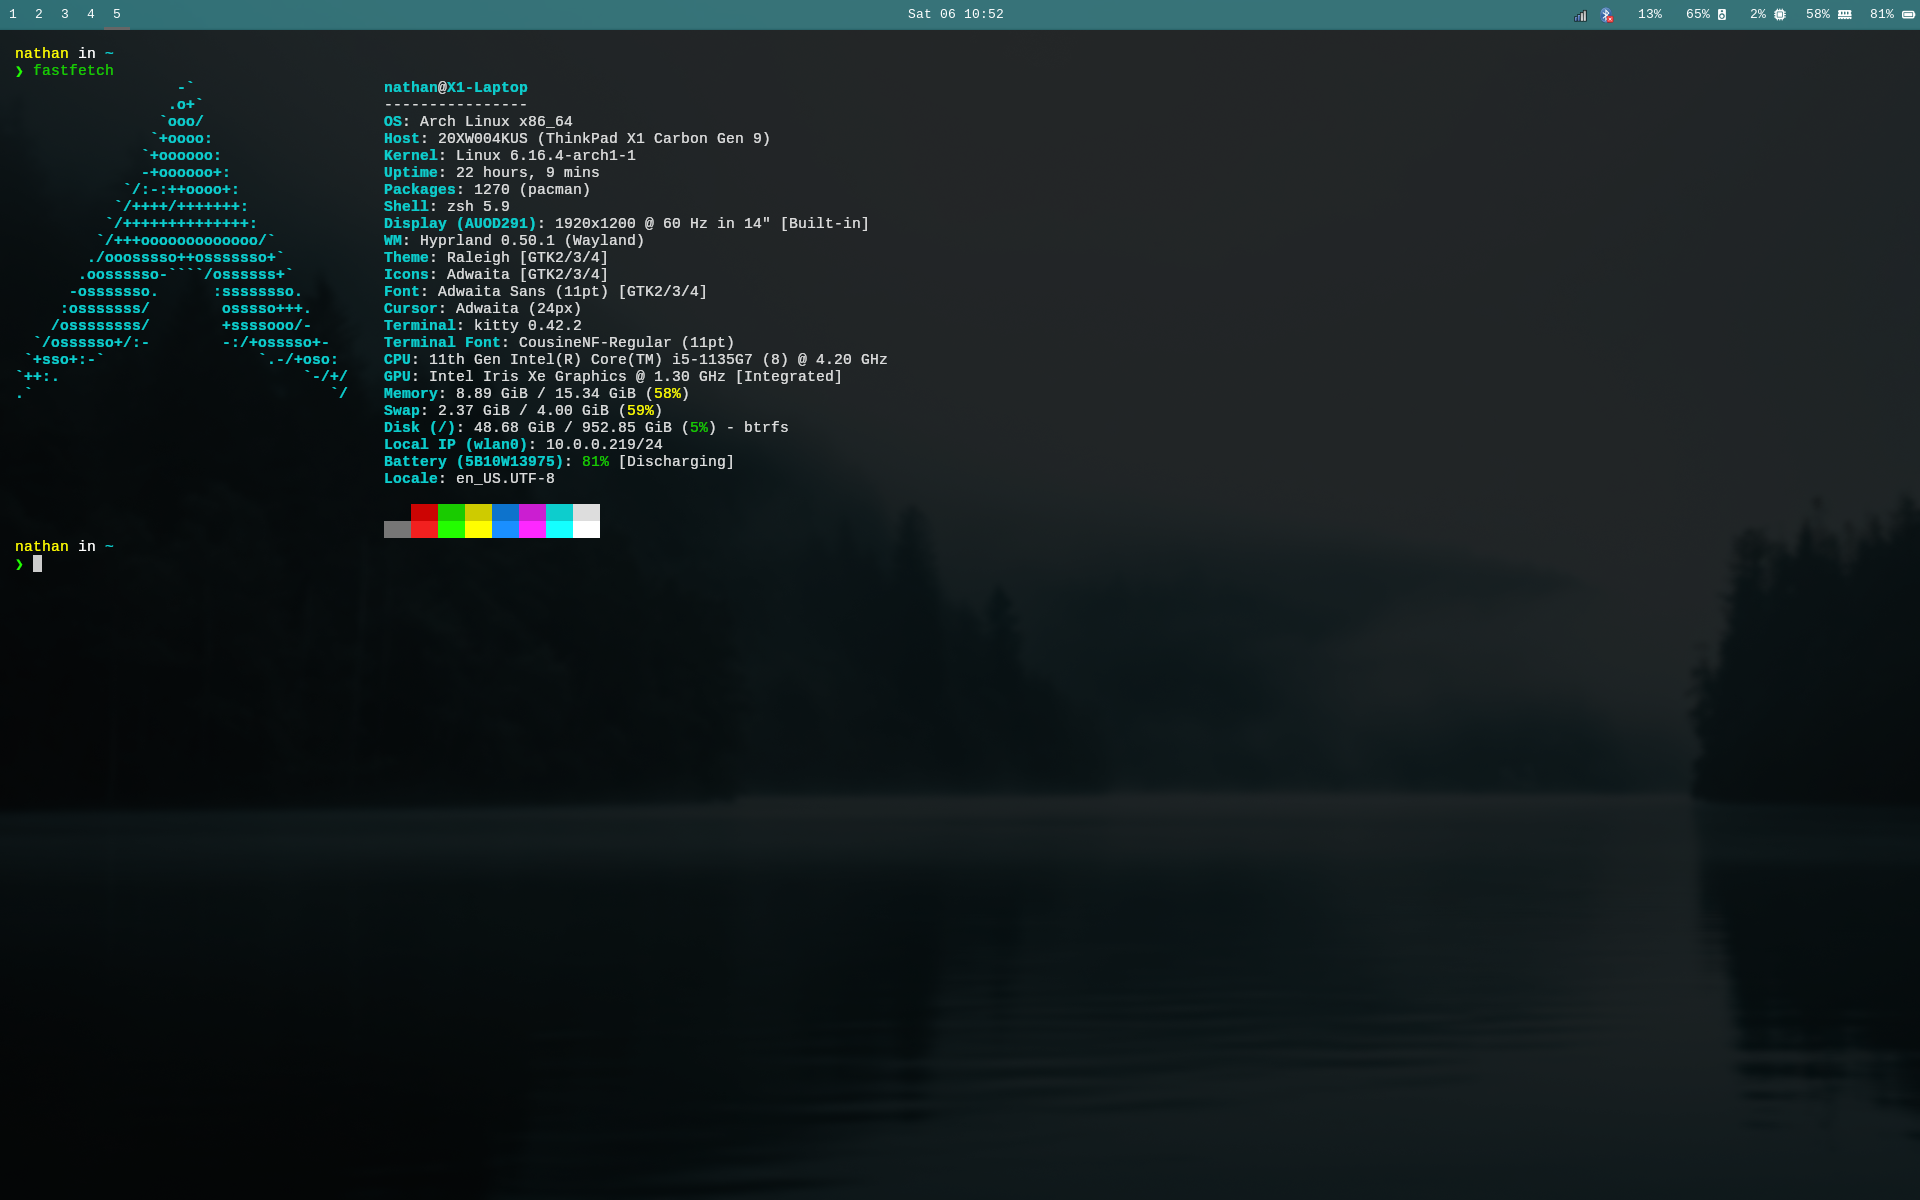
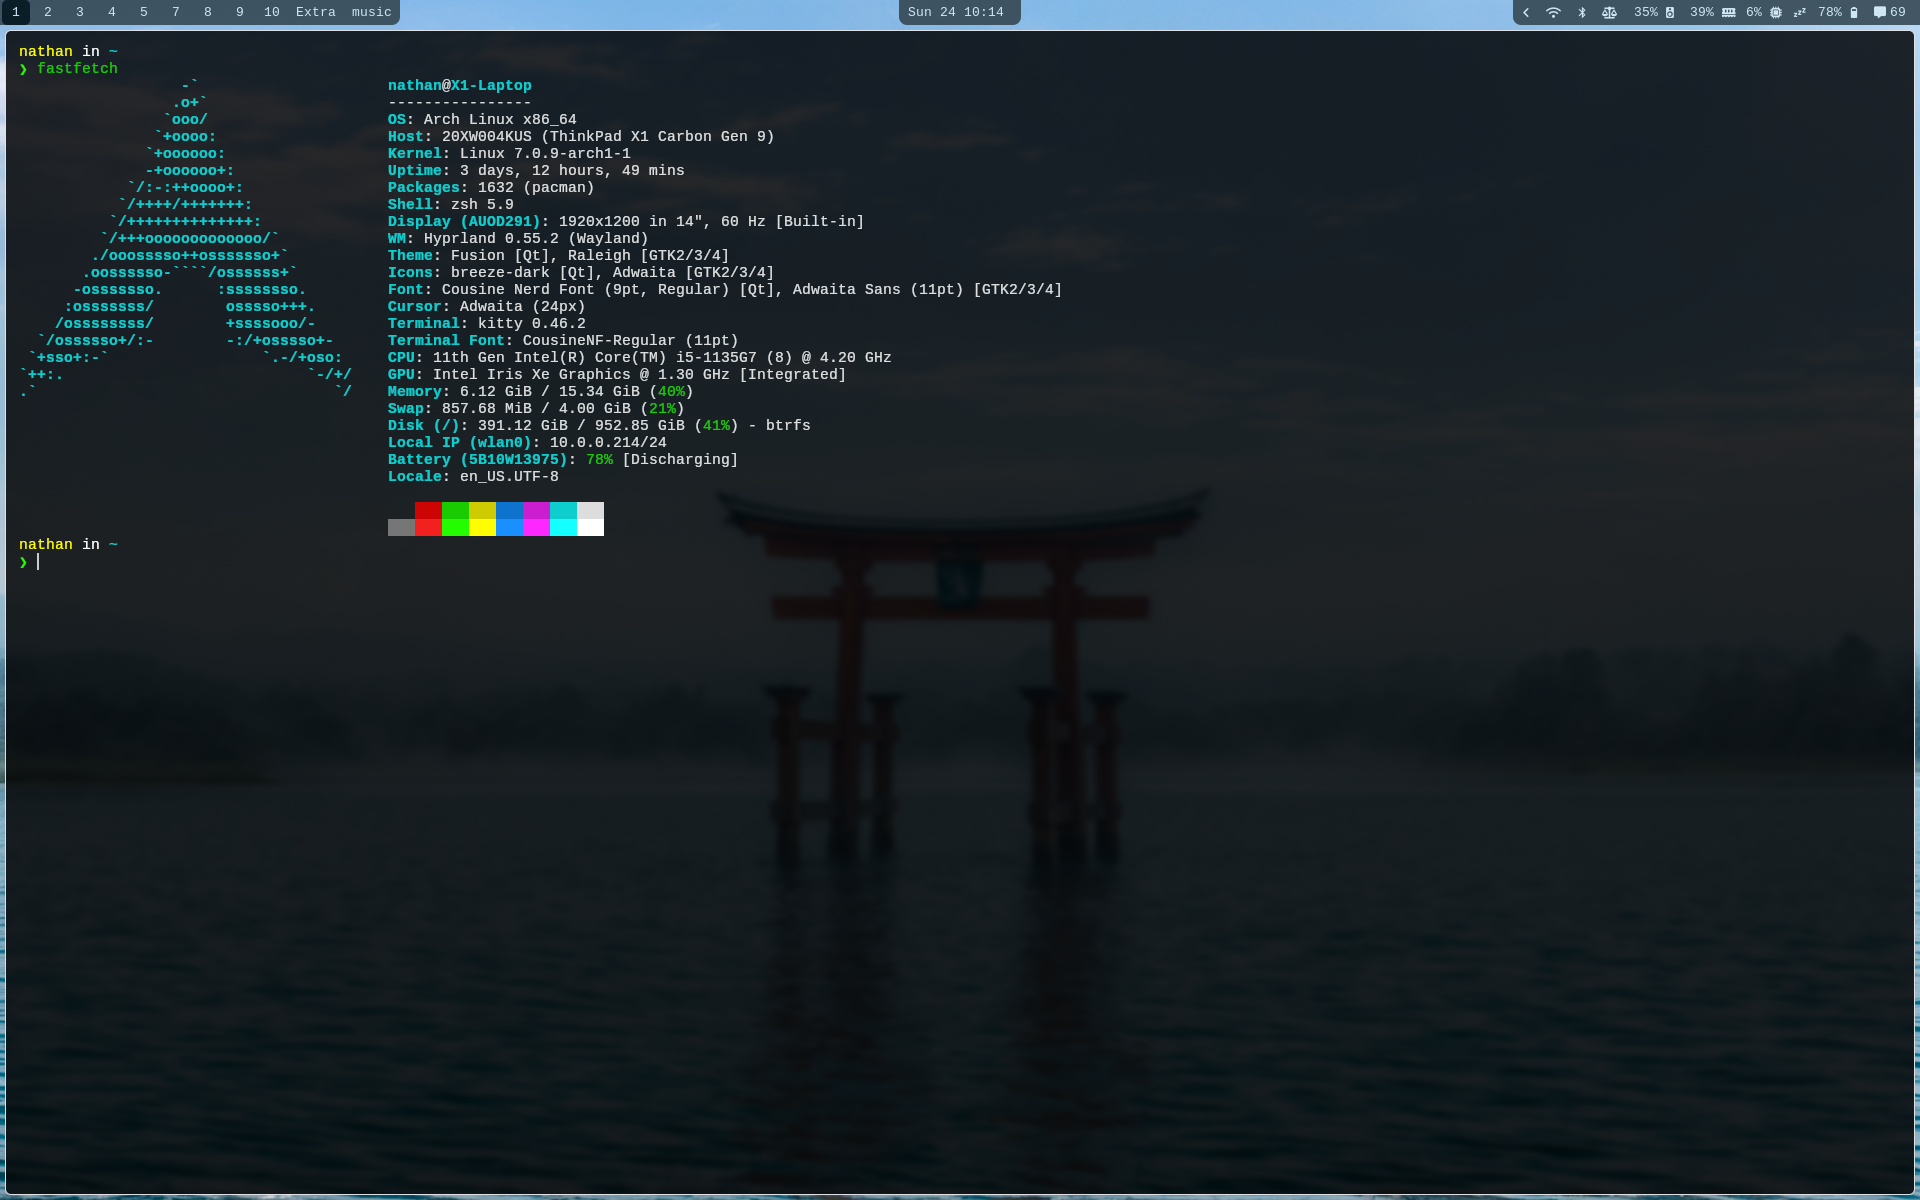
Updated assets

diff --git a/README.md b/README.md
@@ -51,4 +51,4 @@ So systemd will handle Hyprland and application.
 ## Pictures
 
 ![Terminal](./assets/Terminal.png)
-![Wofi](./assets/Wofi.png)
+![HomeScreen](./assets/HomeScreen.png)